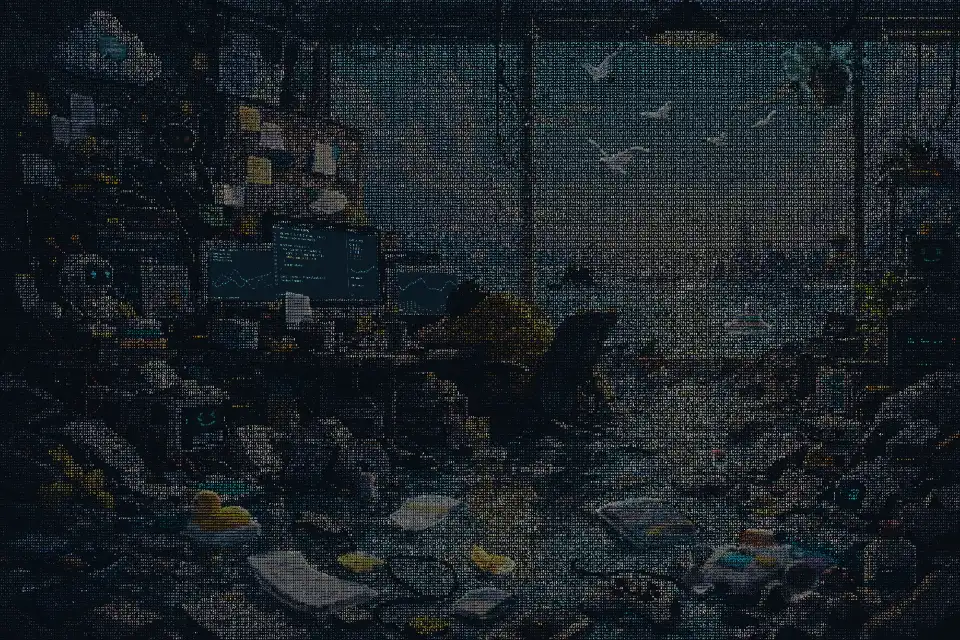
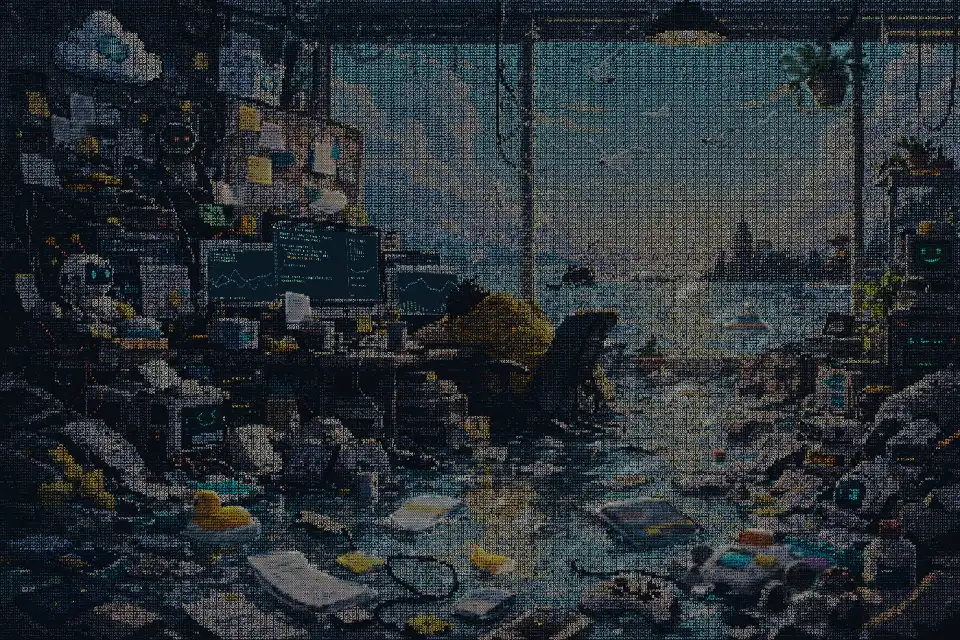
Enlarge ASCII type while keeping gulls and distant buildings at the minimum size

diff --git a/ascii-renderer.js b/ascii-renderer.js
@@ -1,8 +1,8 @@
-import { scenePixelRatio } from './render-budget.js?v=20261110-quality14';
+import { scenePixelRatio } from './render-budget.js?v=20261110-type15';
 import { createCanvas } from './canvas-factory.js?v=20261110-fps10';
 import { detailShapes, detailPoint, eyeOpening, cloudWindows, cloudSpeed, emitters } from './scene-details.js?v=20261110-depth6';
-import { GlyphAtlas } from './glyph-atlas.js?v=20261110-quality14';
-import { screens, paintScreen } from './screen-content.js?v=20261110-quality14';
+import { GlyphAtlas } from './glyph-atlas.js?v=20261110-type15';
+import { screens, paintScreen } from './screen-content.js?v=20261110-type15';
 import { faceLight, lampColor } from './scene-lights.js?v=20261110-depth6';
 import { quadPoint, drawQuad } from './scene-geometry.js?v=20261110-fps10';
 
@@ -42,7 +42,8 @@ export function inside(x, y, polygon) {
 }
 const clamp = (x, low = 0, high = 1) => Math.max(low, Math.min(high, x));
 const hash = (x, y) => { const n = Math.sin(x * 127.1 + y * 311.7) * 43758.5453; return n - Math.floor(n); };
-const sizeStops=[.01,.035,.1,.22,.44,.70,.87,.95,.985,1];
+// Nine sizes, weighted toward the readable middle rather than the extremes.
+const sizeStops=[.02,.07,.17,.35,.61,.81,.92,.98,1];
 const bands = ['.,', ':;', '-=', '+*', 'xo', '%#', 'MW', '@'];
 const light = c => (.2126 * c[0] + .7152 * c[1] + .0722 * c[2]) / 255;
 const color = c => `rgb(${c.map(v => Math.round(255 * (clamp(v / 255) ** .84))).join(' ')})`;
@@ -51,8 +52,9 @@ const sky = (r, g, b) => g - r > 26 && b - r > 33;
 const skyPixel = rgb => (rgb[1] - rgb[0] > 15 && rgb[2] - rgb[0] > 20 && rgb[1] > 110) || Math.min(...rgb) > 150;
 const smooth = value => { const t = clamp(value); return t * t * (3 - 2 * t); };
 const yieldToBrowser = () => globalThis.scheduler?.yield ? scheduler.yield() : new Promise(resolve=>setTimeout(resolve,0));
-export const fontSizes = [.35,.4,.45,.5,.55,.6,.65,.7,.75,.8];
-const fontStep = size => fontSizes[clamp(Math.round((size-.35)/.05),0,fontSizes.length-1)];
+export const fontSizes = [.6,.65,.7,.75,.8,.85,.9,.95,1];
+export const minFontSize=fontSizes[0];
+export const fontStep = size => fontSizes[clamp(Math.round((size-minFontSize)/.05),0,fontSizes.length-1)];
 
 function flight(bird, time) {
   const route = bird.route, count = route.length;
@@ -96,6 +98,22 @@ const waterAreas = [
   [[870,436],[1367,433],[1363,548],[1200,578],[1120,659],[995,657],[984,579],[875,572]],
   [[716,697],[1007,686],[1114,652],[1200,696],[1126,775],[1010,800],[966,854],[865,908],[725,900],[630,836],[555,827]],
   [[255,804],[428,815],[605,863],[725,902],[866,902],[948,884],[1074,929],[1234,931],[1349,986],[1069,1023],[694,1023],[535,948],[372,938],[242,899],[154,850]],
+];
+// Trace the distant buildings in source coordinates. Keep the common sampling
+// grid and colors; only their glyph size is fixed. Window frames and the nearer
+// monitor, shelving and plant remain outside these silhouettes.
+const distantCity = [
+  [[1114,447],[1134,437],[1143,437],[1143,416],[1152,415],[1152,404],[1162,404],[1163,420],[1171,419],
+   [1171,376],[1178,373],[1179,357],[1186,356],[1187,345],[1191,345],[1191,359],[1197,359],[1198,376],
+   [1205,379],[1205,402],[1211,402],[1211,384],[1222,384],[1222,412],[1229,406],[1238,407],[1239,417],
+   [1251,418],[1251,398],[1266,397],[1266,415],[1279,413],[1279,423],[1293,425],[1293,402],[1306,399],
+   [1306,423],[1317,421],[1317,435],[1324,434],[1325,411],[1335,412],[1335,423],[1341,423],[1341,412],
+   [1352,411],[1352,397],[1362,397],[1362,451],[1335,452],[1318,448],[1280,453],[1256,449],[1224,450],
+   [1195,450],[1160,447],[1133,453]],
+  [[1384,399],[1393,391],[1394,379],[1403,377],[1403,347],[1411,337],[1411,431],[1384,431]],
+  [[1427,360],[1439,360],[1439,332],[1448,332],[1448,314],[1464,314],[1464,325],[1477,325],
+   [1477,307],[1496,307],[1496,300],[1527,300],[1527,332],[1512,338],[1512,351],[1494,354],
+   [1471,355],[1460,351],[1450,358],[1444,361],[1427,367]],
 ];
 const personArea = [[650,516],[711,486],[722,447],[773,445],[799,472],[859,473],[890,524],[876,613],[848,643],[812,642],[802,599],[771,564],[689,560]];
 // Trace the actual curls separately from the broad body/motion exclusion area.
@@ -314,10 +332,10 @@ export class AsciiRenderer {
     this.rows = Math.round(height / (width / this.columns * 1.28));
     this.cellW = width / this.columns; this.cellH = height / this.rows;
     // Keep the previous ~5.8px reference font on desktop while packing the
-    // smaller 0.35–0.8 glyphs on a single finer lattice.
+    // readable 0.6–1.0 glyphs on a single fine lattice.
     this.fontSize = this.cellH * 1.28;
     for (const screen of this.screens) {
-      screen.fontSize=this.fontSize/this.scale*(screen.kind==='code'?.75:.65);
+      screen.fontSize=this.fontSize/this.scale*(screen.kind==='code'?.85:.8);
       screen.frame=-1;
     }
     this.palette = new GlyphAtlas(this.fontSize, Math.max(2,dpr));
@@ -337,29 +355,30 @@ export class AsciiRenderer {
       for (let col = 0; col < this.columns; col++) {
       const sx = (col + .5) * sxStep, sy = (row + .5) * syStep;
       const {rgb,contrast} = this.sampleEdge(sx,sy,sxStep*.34,syStep*.34), seed = hash(col, row);
-      const isWater = waterAreas.some(poly => inside(sx, sy, poly)) &&
+      const isCity=distantCity.some(polygon=>inside(sx,sy,polygon));
+      const isWater = !isCity && waterAreas.some(poly => inside(sx, sy, poly)) &&
         ((rgb[2] > rgb[0] * 1.1 && rgb[1] > rgb[0] * 1.13) || (light(rgb) > .57 && rgb[0] > 150));
       const isHem = inside(sx, sy, hemArea) && rgb[0] > rgb[2] * 1.8;
-      const cloudIndex = this.cloudIndex(sx,sy,rgb);
+      const cloudIndex = isCity ? -1 : this.cloudIndex(sx,sy,rgb);
       const skyWeight = Math.max(...this.cloudSources.map(source=>{
         const [x,y,w,h]=source.box;
         return smooth(Math.min(sx-x,x+w-sx,sy-y,y+h-sy)/28);
       }));
-      // Most letters share a calm middle weight. Retain all ten size steps,
+      // Most letters share a calm middle weight. Retain all nine size steps,
       // but use the extremes sparingly instead of making every surface noisy.
       const variedSize=fontSizes[sizeStops.findIndex(stop=>seed<stop)];
-      const calmSize=variedSize+(.6-variedSize)*skyWeight;
+      const calmSize=variedSize+(.8-variedSize)*skyWeight;
       // Large glyphs crossing high-contrast silhouettes made bright outlines.
       // Keep the requested size bins, with smaller glyphs at those edges.
-      const edgeSize=calmSize+(Math.min(calmSize,.65)-calmSize)*smooth((contrast-45)/100);
-      const size=fontStep(edgeSize);
-      // Ten discrete sizes, with one occupied cell at every grid position.
+      const edgeSize=calmSize+(Math.min(calmSize,.85)-calmSize)*smooth((contrast-45)/100);
+      const size=isCity ? minFontSize : fontStep(edgeSize);
+      // Nine discrete sizes, with one occupied cell at every grid position.
       const cell = { sx, sy, rgb, size,
         x: sx * this.scale + (seed - .5) * .4,
         y: sy * this.scale + (hash(row, col) - .5) * .35,
         seed, phase: seed * Math.PI * 2, glyph: glyph(rgb, seed), color: color(rgb),
         kind: isHem ? 'hem' : 'ambient' };
-      const isAmbient = !isWater && contrast<65 && skyWeight<.1 && seed < .018 && !inside(sx, sy, personArea) && !inside(sx,sy,screenOccluder) && !inside(sx,sy,monitorHousing);
+      const isAmbient = !isCity && !isWater && contrast<65 && skyWeight<.1 && seed < .018 && !inside(sx, sy, personArea) && !inside(sx,sy,screenOccluder) && !inside(sx,sy,monitorHousing);
       this.cells.push(cell);
       if (cloudIndex>=0) {
         this.cloudCells.push({...cell,cloudIndex});
@@ -405,14 +424,14 @@ export class AsciiRenderer {
         }
         if (count < 3) continue;
         const rgb = sum.map(v => v / count);
-        cells.push({ sx: px / count, sy: py / count, glyph: glyph(rgb, hash(sx, sy)), color: color(rgb), size: fontStep(detail*(.6 + .15 * clamp(count / (xStep * yStep)))) });
+        cells.push({ sx: px / count, sy: py / count, glyph: glyph(rgb, hash(sx, sy)), color: color(rgb), size: region.bird ? minFontSize : fontStep(detail*(.8 + .15 * clamp(count / (xStep * yStep)))) });
       }
       return cells;
     };
     this.sprites = [];
     for (const region of this.birdMasks) { this.sprites.push({bird:region.bird,cells:spriteCells(region)}); yield .75; }
     this.details = [];
-    for (const region of this.detailMasks) { this.details.push({shape:region.shape,cells:spriteCells(region,region.shape.kind==='eye'?.46:1)}); yield .78; }
+    for (const region of this.detailMasks) { this.details.push({shape:region.shape,cells:spriteCells(region,region.shape.kind==='eye'?.6:1)}); yield .78; }
     this.lights = emitters.map(emitter => {
       const [bx,by,w,h]=emitter.box, cells=[];
       if (emitter.plane) {
@@ -666,13 +685,13 @@ export class AsciiRenderer {
       ctx.fillStyle = '#080d13';
       for (const cell of sprite.cells) {
         const [x, y] = birdPoint(sprite.bird, cell.sx, cell.sy, time, pose);
-        const size = clamp(cell.size * pose.scale,.35,.8);
+        const size = minFontSize;
         ctx.fillRect(x * this.scale - this.cellW * .43 * size, y * this.scale - this.cellH * .4 * size,
           this.cellW * .86 * size, this.cellH * .8 * size);
       }
       for (const cell of sprite.cells) {
         const [x, y] = birdPoint(sprite.bird, cell.sx, cell.sy, time, pose);
-        this.stamp(cell, x * this.scale, y * this.scale, clamp(cell.size * pose.scale,.35,.8));
+        this.stamp(cell, x * this.scale, y * this.scale, minFontSize);
       }
     }
   }

diff --git a/index.html b/index.html
@@ -7,32 +7,32 @@
   <meta name="description" content="jaq/li 的个人博客：技术、生活与研究。" />
   <title>jaq/li</title>
   <link rel="icon" href="./assets/favicon.svg" type="image/svg+xml" />
-  <link rel="stylesheet" href="./styles.css?v=20261110-quality14" />
-  <link rel="preload" href="./assets/scene-preview.webp?v=20261110-fps10" as="image" fetchpriority="high" />
+  <link rel="stylesheet" href="./styles.css?v=20261110-type15" />
+  <link rel="preload" href="./assets/scene-preview.webp?v=20261110-type15" as="image" fetchpriority="high" />
   <link rel="preload" href="./assets/scene.webp?v=20261110-depth6" as="fetch" crossorigin="anonymous" fetchpriority="low" />
-  <link rel="modulepreload" href="./ascii-renderer.js?v=20261110-quality14" />
-  <link rel="modulepreload" href="./scene-renderer.js?v=20261110-quality14" />
-  <link rel="modulepreload" href="./flight-layer.js?v=20261110-quality14" />
-  <link rel="modulepreload" href="./render-budget.js?v=20261110-quality14" />
-  <link rel="modulepreload" href="./scene-layers.js?v=20261110-quality14" />
-  <link rel="modulepreload" href="./scene-snapshot.js?v=20261110-quality14" />
+  <link rel="modulepreload" href="./ascii-renderer.js?v=20261110-type15" />
+  <link rel="modulepreload" href="./scene-renderer.js?v=20261110-type15" />
+  <link rel="modulepreload" href="./flight-layer.js?v=20261110-type15" />
+  <link rel="modulepreload" href="./render-budget.js?v=20261110-type15" />
+  <link rel="modulepreload" href="./scene-layers.js?v=20261110-type15" />
+  <link rel="modulepreload" href="./scene-snapshot.js?v=20261110-type15" />
   <link rel="modulepreload" href="./canvas-factory.js?v=20261110-fps10" />
   <link rel="modulepreload" href="./site.config.js?v=20261110-flight11" />
   <link rel="modulepreload" href="./scene-loader.js?v=20261110-depth6" />
-  <link rel="modulepreload" href="./screen-content.js?v=20261110-quality14" />
+  <link rel="modulepreload" href="./screen-content.js?v=20261110-type15" />
   <link rel="modulepreload" href="./scene-lights.js?v=20261110-depth6" />
-  <link rel="modulepreload" href="./navigation.js?v=20261110-quality14" />
+  <link rel="modulepreload" href="./navigation.js?v=20261110-type15" />
   <link rel="modulepreload" href="./scene-details.js?v=20261110-depth6" />
-  <link rel="modulepreload" href="./glyph-atlas.js?v=20261110-quality14" />
+  <link rel="modulepreload" href="./glyph-atlas.js?v=20261110-type15" />
   <link rel="modulepreload" href="./scene-geometry.js?v=20261110-fps10" />
   <link rel="modulepreload" href="./scene-floats.js?v=20261110-depth6" />
-  <script type="module" src="./app.js?v=20261110-quality14"></script>
+  <script type="module" src="./app.js?v=20261110-type15"></script>
 </head>
 <body class="home">
   <main id="scene-viewport" class="scene-viewport" aria-label="可探索的海边工作室">
     <div id="scene-world" class="scene-world">
       <img id="scene-image" class="scene-image" alt="海边工作室：电脑屏幕通往技术博客，人物通往个人 CV。" />
-      <img id="scene-poster" class="scene-poster" src="./assets/scene-preview.webp?v=20261110-fps10" fetchpriority="high" alt="" aria-hidden="true" />
+      <img id="scene-poster" class="scene-poster" src="./assets/scene-preview.webp?v=20261110-type15" fetchpriority="high" alt="" aria-hidden="true" />
       <canvas id="ascii-canvas" aria-hidden="true"></canvas>
       <div id="motion-layers" class="motion-layers" aria-hidden="true"></div>
       <div id="flight-layer" class="flight-layer" aria-hidden="true"></div>

diff --git a/layered-scene.js b/layered-scene.js
@@ -1,6 +1,7 @@
-import { waterSampleInterval } from './render-budget.js?v=20261110-quality14';
-import { paintScreen } from './screen-content.js?v=20261110-quality14';
+import { waterSampleInterval } from './render-budget.js?v=20261110-type15';
+import { paintScreen } from './screen-content.js?v=20261110-type15';
 import { createCanvas } from './canvas-factory.js?v=20261110-fps10';
+import { fontStep } from './ascii-renderer.js?v=20261110-type15';
 
 function screenMatrix(quad,w,h,scale){
   const [[x0,y0],[x1,y1],[x2,y2],[x3,y3]]=quad,dx1=x1-x2,dx2=x3-x2,dx3=x0-x1+x2-x3,dy1=y1-y2,dy2=y3-y2,dy3=y0-y1+y2-y3;
@@ -66,7 +67,7 @@ export class LayeredScene {
     this.waterCtx.setTransform(dpr,0,0,dpr,-water.x*dpr,-water.y*dpr);
     this.resetWater();this.cloudFrame=-1;
     // Cache the same Number precision as the size calculation; float32
-    // rounding made unchanged 0.35/0.6/etc. bins compare unequal every frame.
+    // rounding made unchanged fractional bins compare unequal every frame.
     this.ambientSizes=new Float64Array(r.dynamic.length).fill(-1);
   }
   resetWater(){this.waterIndices=[-1,-1,-1];}
@@ -88,7 +89,7 @@ export class LayeredScene {
     }
     r.drawLights(time,false);
     for(let i=0;i<r.dynamic.length;i++){
-      const cell=r.dynamic[i],size=cell.kind==='hem'?cell.size:.35+Math.max(0,Math.min(9,Math.round((cell.size+.05*Math.round(Math.sin(time*.75+cell.phase))-.35)/.05)))*.05;
+      const cell=r.dynamic[i],size=cell.kind==='hem'?cell.size:fontStep(cell.size+.05*Math.round(Math.sin(time*.75+cell.phase)));
       if(cell.kind!=='hem'&&size===this.ambientSizes[i])continue;
       this.ambientSizes[i]=size;
       const pad=r.fontSize,x=cell.x-pad,y=cell.y-pad;

diff --git a/flight-layer.js b/flight-layer.js
@@ -1,4 +1,4 @@
-import { birdPose } from './ascii-renderer.js?v=20261110-quality14';
+import { birdPose, minFontSize } from './ascii-renderer.js?v=20261110-type15';
 const clamp=(v,lo=0,hi=1)=>Math.max(lo,Math.min(hi,v));
 
 // Tiny transparent bird canvases move at display cadence. Their transforms do
@@ -47,7 +47,9 @@ export class FlightLayer {
         ctx.clearRect(0,0,width,height); ctx.fillStyle='#080d13';
         for (const cell of cells) {
           cell.dy=cell.y+pose.flap*cell.wing*this.scale;
-          cell.drawSize=clamp(cell.size*pose.scale,.35,.8)/pose.scale;
+          // Perspective changes the flock's spacing, never its minimum-sized
+          // letters: cancel the scale applied by the composited bird canvas.
+          cell.drawSize=minFontSize/pose.scale;
           ctx.fillRect(cell.x-this.cellW*.43*cell.drawSize,cell.dy-this.cellH*.4*cell.drawSize,
             this.cellW*.86*cell.drawSize,this.cellH*.8*cell.drawSize);
         }
@@ -56,7 +58,9 @@ export class FlightLayer {
           ctx.drawImage(this.atlas,cell.tx,cell.ty,this.tile,this.tile,cell.x-side/2,cell.dy-side/2,side,side);
         }
       }
-      const a=pose.cos*pose.scale,b=pose.sin*pose.scale,c=-b,d=a;
+      // Match the scale of the cached glyphs exactly, including frames where
+      // a subpixel perspective change does not require another rasterization.
+      const a=pose.cos*sprite.scale,b=pose.sin*sprite.scale,c=-b,d=a;
       const tx=pose.position[0]*this.scale+a*x+c*y,ty=pose.position[1]*this.scale+b*x+d*y;
       canvas.style.transform=`matrix3d(${a},${b},0,0,${c},${d},0,0,0,0,1,0,${tx},${ty},0,1)`;
     }

diff --git a/scene-renderer.js b/scene-renderer.js
@@ -1,6 +1,6 @@
-import { scenePixelRatio } from './render-budget.js?v=20261110-quality14';
-import { SceneLayers } from './scene-layers.js?v=20261110-quality14';
-import { AsciiRenderer } from './ascii-renderer.js?v=20261110-quality14';
+import { scenePixelRatio } from './render-budget.js?v=20261110-type15';
+import { SceneLayers } from './scene-layers.js?v=20261110-type15';
+import { AsciiRenderer } from './ascii-renderer.js?v=20261110-type15';
 
 class WorkerRenderer {
   constructor(worker,canvas) {
@@ -52,7 +52,7 @@ class WorkerRenderer {
 // Start loading the worker/modules while the compressed scene downloads.
 export function prepareSceneRenderer(canvas){
   if(typeof Worker==='undefined'||typeof OffscreenCanvas==='undefined'||typeof createImageBitmap!=='function'||typeof canvas.transferControlToOffscreen!=='function')return null;
-  try{return new WorkerRenderer(new Worker(new URL('./scene-worker.js?v=20261110-quality14',import.meta.url),{type:'module'}),canvas);}catch{return null;}
+  try{return new WorkerRenderer(new Worker(new URL('./scene-worker.js?v=20261110-type15',import.meta.url),{type:'module'}),canvas);}catch{return null;}
 }
 
 export async function createSceneRenderer(image,canvas,onProgress,prepared=prepareSceneRenderer(canvas)) {

diff --git a/app.js b/app.js
@@ -1,10 +1,10 @@
-import { scenePixelRatio, sceneFrameInterval } from './render-budget.js?v=20261110-quality14';
+import { scenePixelRatio, sceneFrameInterval } from './render-budget.js?v=20261110-type15';
 import { site } from './site.config.js?v=20261110-flight11';
-import { FlightLayer } from './flight-layer.js?v=20261110-quality14';
+import { FlightLayer } from './flight-layer.js?v=20261110-type15';
 import { detailShapes, detailPoint } from './scene-details.js?v=20261110-depth6';
-import { createSceneRenderer, prepareSceneRenderer } from './scene-renderer.js?v=20261110-quality14';
+import { createSceneRenderer, prepareSceneRenderer } from './scene-renderer.js?v=20261110-type15';
 import { loadSceneImage } from './scene-loader.js?v=20261110-depth6';
-import './navigation.js?v=20261110-quality14';
+import './navigation.js?v=20261110-type15';
 
 const viewport = document.querySelector('#scene-viewport');
 const world = document.querySelector('#scene-world');

diff --git a/scene-worker.js b/scene-worker.js
@@ -1,5 +1,5 @@
-import { AsciiRenderer } from './ascii-renderer.js?v=20261110-quality14';
-import { LayeredScene } from './layered-scene.js?v=20261110-quality14';
+import { AsciiRenderer } from './ascii-renderer.js?v=20261110-type15';
+import { LayeredScene } from './layered-scene.js?v=20261110-type15';
 let renderer,display,layers,revision=0;
 let queue=Promise.resolve();
 self.onmessage=({data})=>{

diff --git a/scene-layers.js b/scene-layers.js
@@ -1,4 +1,4 @@
-import { waterSampleInterval } from './render-budget.js?v=20261110-quality14';
+import { waterSampleInterval } from './render-budget.js?v=20261110-type15';
 import { detailPoint } from './scene-details.js?v=20261110-depth6';
 
 // The browser composites small canvases in their original image coordinates.

diff --git a/navigation.js b/navigation.js
@@ -1,4 +1,4 @@
-import { drawSceneLayers } from './scene-snapshot.js?v=20261110-quality14';
+import { drawSceneLayers } from './scene-snapshot.js?v=20261110-type15';
 const reducedMotion = matchMedia('(prefers-reduced-motion: reduce)');
 let navigating = false;
 let overlay;

diff --git a/README.md b/README.md
@@ -21,19 +21,19 @@ python3 -m http.server 8081 --bind 0.0.0.0
 
 入口多边形与目标链接位于 `site.config.js`，原图尺寸为 1536 × 1024。首页无上传、拖入图片或密度调整功能。
 
-渲染由 `ascii-renderer.js` 完成。全景共用约 3.5 px 间距的字符网格（1536 px 宽时为 439 列），字号使用 0.35–0.8 倍共十档，间隔 0.05；主要集中在中间档位，每格均保留字符。屏幕与动态物体使用相同的基准字号和范围，通过 ASCII 文本、双通道波形、频谱和状态侧栏保留细节，边缘渐变接回原图反光与边框。水面使用完整的字符底层，移动反光与局部涟漪不会留下黑缝；人物躯干和手臂保持固定。
+渲染由 `ascii-renderer.js` 完成。全景共用约 3.5 px 间距的字符网格（1536 px 宽时为 439 列），字号使用 0.60–1.00 倍共九档，间隔 0.05；主要集中在 0.75–0.85 档，每格均保留字符。海鸥和远景城市始终固定在最小档 0.60；城市退出字号呼吸动画，海鸥透视缩放不改变字符字号。屏幕与动态物体使用相同的基准字号和范围，通过 ASCII 文本、双通道波形、频谱和状态侧栏保留细节，边缘渐变接回原图反光与边框。水面使用完整的字符底层，移动反光与局部涟漪不会留下黑缝；人物躯干和手臂保持固定。
 
-首屏优先显示 `assets/scene-preview.webp` 中预先渲染的 ASCII，下载 `assets/scene.webp` 的同时预载 Worker 模块，随后分段初始化动画，保持入口可点击。进度条跟随真实下载字节数、物体准备和字符绘制进度；没有长度头时，下载阶段显示不定进度。原始 PNG 不参与首页下载。静态字符同样复用图集，云纹理生成复用数组，同尺寸重复布局不会重新生成缓存。修改渲染样式或原图后，在静态服务运行时执行 `node tools/prepare-scene.cjs` 更新这两个资源（需要 ffmpeg、Playwright 和 Chromium）。
+首屏优先显示 `assets/scene-preview.webp` 中预先渲染的 ASCII，下载 `assets/scene.webp` 的同时预载 Worker 模块，随后分段初始化动画，保持入口可点击。进度条跟随真实下载字节数、物体准备和字符绘制进度；没有长度头时，下载阶段显示不定进度。原始 PNG 不参与首页下载。静态字符同样复用图集，云纹理生成复用数组，同尺寸重复布局不会重新生成缓存。修改渲染样式或原图后，在静态服务运行时执行 `node tools/prepare-scene.cjs` 更新这两个资源（需要 ffmpeg、Playwright 和 Chromium）。只调整字体时使用 `node tools/prepare-scene.cjs --preview-only`，仅重绘首屏预览，保留场景图片的原有编码和颜色。
 
 五只海鸥沿各自的闭合曲线飞行，穿插扇翼、滑翔和转弯。`flight-layer.js` 维护小型透明字符画布，`scene-layers.js` 让十一组漂浮物复用纹理、通过合成变换移动；Life 隐藏入口与小黄鸭使用同一时钟更新。其余约 1.8% 的字符独立轻微缩放，不使用全屏条纹。
 
 `layered-scene.js` 在 Worker 中分别更新水面、云层、纸张、眼睛、三块屏幕和灯光。固定背景只画一次，环境字符变化时只恢复小块底图；浏览器直接合成这些局部画布，每帧无需复制或传递整幅房间。显示屏用 CSS 四角透视，头发轮廓单独覆盖，转场通过 `scene-snapshot.js` 合成所有层。水面字符位置固定，Worker 每秒采样 12 次亮度，三个有上限的局部缓冲提前准备相邻时刻；主线程按显示节奏做加法混合，使涟漪连续变化，避免每帧重绘和上传整片水面。海鸥、漂浮物与水波混合目标 60 Hz；波形与纸张由局部绘制更新，慢速云纹理和灯光按 30 Hz 更新。实际帧率取决于设备，全部动作保持真实时间速度。
 
-`render-budget.js` 保持优化前的高 DPI 分辨率（设备 DPR，上限 2），不按画面面积降采样；字符网格、0.35–0.8 字号范围和取色规则保持不变。三块屏幕保留原来的 3 倍源纹理；云层、头发遮挡和灯光图层使用整数 CSS 边界，避免浏览器二次缩放细小字符。资源优化通过局部绘制与有上限的缓存实现：移动字形图集按字形和颜色去重，烘焙后释放静态调色图集和源画布；灯光图集最多 2048 格，屏幕文字纹理最多 2 MiB / 384 项，缩放后释放旧显示缓冲。水面缓冲始终只有三个，传递后立即关闭 ImageBitmap。最多一个 Worker 请求在途，隐藏标签页和暂停时停止调度。缺少 Worker/OffscreenCanvas 或启动失败时回退到 Canvas2D；系统要求减少动态效果时默认暂停。
+`render-budget.js` 保持优化前的高 DPI 分辨率（设备 DPR，上限 2），不按画面面积降采样；字符网格、0.60–1.00 字号范围和取色规则保持不变。三块屏幕保留原来的 3 倍源纹理；云层、头发遮挡和灯光图层使用整数 CSS 边界，避免浏览器二次缩放细小字符。资源优化通过局部绘制与有上限的缓存实现：移动字形图集按字形和颜色去重，烘焙后释放静态调色图集和源画布；灯光图集最多 2048 格，屏幕文字纹理最多 2 MiB / 384 项，缩放后释放旧显示缓冲。水面缓冲始终只有三个，传递后立即关闭 ImageBitmap。最多一个 Worker 请求在途，隐藏标签页和暂停时停止调度。缺少 Worker/OffscreenCanvas 或启动失败时回退到 Canvas2D；系统要求减少动态效果时默认暂停。
 
 `scene-details.js` 定义机器人眨眼、黄鸭与泳圈的浮动、九张纸的固定点与风动、吊盆叶尖和云层区域。`scene-lights.js` 控制机械云变色呼吸灯、红眼目光以及两侧机器人的四种表情，`screen-content.js` 绘制三块屏幕。云层在窗框后漂移；太阳、城市与室内结构保持稳定。`glyph-atlas.js` 缓存全景与灯光的彩色字符。[逐项动作设计与边界](docs/scene-motion.md)记录了受力方式、固定点和遮挡处理。
 
-城市、人物与周围场景共用同一网格、字形和颜色规则，不叠加局部细网格。边缘取色避免跨物体混色，天空使用稳定的小字；发丝按原图遮挡屏幕，保留发丝之间的背景空隙。`scene-geometry.js` 统一显示屏与左下机器人面板的四角透视。右侧显示区域扩到内侧 1–2 圈白色字符，人物头发仍遮挡显示器。`scene-floats.js` 为船、罐子、纸张、平板、手机与玩具车配置独立的浮动周期和相位；加上黄鸭，共十一组漂浮物。
+城市、人物与周围场景共用同一网格、字形和颜色规则；远景建筑按轮廓固定使用 0.60 档，不叠加局部细网格。边缘取色避免跨物体混色，天空使用稳定的小字；发丝按原图遮挡屏幕，保留发丝之间的背景空隙。`scene-geometry.js` 统一显示屏与左下机器人面板的四角透视。右侧显示区域扩到内侧 1–2 圈白色字符，人物头发仍遮挡显示器。`scene-floats.js` 为船、罐子、纸张、平板、手机与玩具车配置独立的浮动周期和相位；加上黄鸭，共十一组漂浮物。
 
 ## 内容映射
 

diff --git a/docs/scene-motion.md b/docs/scene-motion.md
@@ -4,8 +4,8 @@
 
 | 元素 | 实现与边界 |
 | --- | --- |
-| 字号层次 | 全景约 3.5 px 间距，0.35–0.8 倍十档字号，每 0.05 一档，以中间档位为主。静态场景、屏幕与动态物体共用字号范围，天空保持稳定字形。 |
-| 远景城市 | 与天空、室内和人物共用同一细网格，不在楼体轮廓内裁切或叠加独立网格。边缘采样保留楼顶、窗户及与天空的明暗对比；城市不随云移动。 |
+| 字号层次 | 全景约 3.5 px 间距，0.60–1.00 倍九档字号，每 0.05 一档，以 0.75–0.85 为主，天空收敛到 0.80。静态场景、屏幕与动态物体共用字号范围；海鸥和城市例外，始终固定 0.60。基准分配从小到大为 2%、5%、10%、18%、26%、20%、11%、6%、2%，随后应用天空和边缘调整。 |
+| 远景城市 | 与天空、室内和人物共用同一细网格，不在楼体轮廓内裁切或叠加独立网格。边缘采样保留楼顶、窗户及与天空的明暗对比；城市不随云移动；按建筑轮廓固定 0.60 档，退出字号呼吸和水面叠加，保留窗框、前景设备的原有字号。 |
 | 三块电脑屏幕 | 保留更细的 ASCII 文本而不二次降采样。四角投影跟随实际显示面的斜向与纵深。中间屏幕覆盖代码、CPU/MEM 侧栏、波形、帧数和底部状态。左屏顶部进一步覆盖约 1–2 层浅色白边，双通道波形与日志按新高度排布。右屏保持完整平行四边形，向右下延伸到头部后方，以贴合发梢的独立轮廓遮挡，保留外边框。波形与屏幕内容随局部绘制更新，目标 60 Hz；CSS 承担四角透视，复用文字纹理，四边羽化。 |
 | 左侧白色机器人眼睛 | 只提取两只眼睛的青色 LED。每 3.2 秒短暂眨眼，目光小幅偏移；头壳、天线、身体均固定。眼睛使用更细的字符，保留小尺寸表情。 |
 | 机械云灯光 | 只替换中心发光区域。青色、紫色、暖橙、薄荷色平滑过渡，亮度按 4.4 秒周期呼吸，核心保留高光。云形外壳、线路不动。 |
@@ -16,7 +16,7 @@
 | 钉在板上的纸 | 九张墙面便笺、板上纸张和显示器旁便条分别提取。固定上缘，偏移随离固定点的距离平方增加；风动频率提高约 1.75 倍，各自使用不同相位。 |
 | 云层 | 沿窗外区域单向漂移，速度约 6.8 原图 px/s。减弱与底图的颜色混合强度，保持字符形状和字号稳定，颜色分档由 32 细化为 16，减少跳色与杂点。窗口边缘渐变衔接；窗框、线缆、城市和太阳保持原位。 |
 | 吊盆叶片 | 只提取绿色叶片，上部叶尖随风轻动，靠近茎部的位移逐渐趋零。花盆和吊绳固定。 |
-| 海鸥 | 沿独立闭合航线飞行，穿插扇翼、滑翔和小幅转弯。五块透明字符画布按屏幕刷新独立移动、转向和扇翼；整景 Worker 的帧间隔不影响飞行。羽翼字符遮挡天空，海鸥不再关联页面入口。 |
+| 海鸥 | 沿独立闭合航线飞行，穿插扇翼、滑翔和小幅转弯。五块透明字符画布按屏幕刷新独立移动、转向和扇翼；整景 Worker 的帧间隔不影响飞行。羽翼字符遮挡天空，海鸥不再关联页面入口。所有羽翼字符固定为 0.60 档，合成变换与字符反向缩放配对，飞行透视也不会改变实际字号。 |
 | 水面 | 固定字符底层，叠加移动反光、局部椭圆涟漪以及浮鸭附近的波纹。Worker 按 12 Hz 准备相邻时刻的亮度，用三个有上限的缓冲循环复用；浏览器按显示节奏对相邻亮度做加法混合，连续变化且不挪走字符。 |
 | 人物与室内结构 | 躯干、手臂、头部、桌椅、屏幕外框保持稳定。衣角末端仅有不足一个像素的起伏；不对人物施加大范围扭曲。 |
 
@@ -27,7 +27,7 @@
 回归检查覆盖场景入口、小黄鸭的移动点击区域、整景阻塞期间持续的飞行与扇翼、固定的躯干与手臂、水面覆盖率、独立屏幕更新、眼睛眨动、浮鸭刚性、纸张固定端、云与窗框的分离、混合字号、移动端、暂停与减少动态效果。`tests/quality.cjs` 在 DPR 2、非整数场景缩放下比较实际截图与完整分辨率参考画面，检查字符清晰度、RGB 偏差和屏幕源纹理尺寸，防止再次用降分辨率换取帧率。
 
 
-2026-11-10 恢复清晰度后的同机串行测试（Chromium，6 秒采样；修改前为分层优化前的 87b166b，两端均保留原始 DPR）：
+2026-11-10 的 quality14 历史基准（字号调整前）：恢复清晰度后的同机串行测试（Chromium，6 秒采样；修改前为分层优化前的 87b166b，两端均保留原始 DPR）：
 
 | 场景 | 水波显示帧率，修改前 → 后 | Worker 更新帧率，修改前 → 后 | 绘图缓冲估算，修改前 → 后 |
 | --- | --- | --- | --- |
@@ -36,3 +36,5 @@
 | 手机尺寸 390×844，设备 DPR 2 | 17.8 → 59.2 fps | 17.8 → 32.8 fps | 138.2 → 99.8 MiB |
 
 帧率随设备变化。缓冲估算统计画布像素容量，浏览器与 JavaScript 内存另计。慢网测试采用 1.6 Mbps、150 ms 延迟及主线程 4 倍 CPU 降速：预览约 2.23 秒可见，动画约 4.85 秒可用，最长初始化主线程任务约 98 ms。页面只下载 154,366 字节的预览和 374,938 字节的场景 WebP。
+
+字号调整后的 type15 验证：高分屏 1440×900、DPR 2 的同机 6 秒采样，水波约 31.6 fps、局部 Worker 约 27.1 fps，绘图缓冲估算 127 MiB；保留完整分辨率。慢网条件相同，预览约 2.40 秒、动画约 5.17 秒；新版预览 172,726 字节，场景源图片仍为 374,938 字节。九档字号、海鸥在飞行透视下固定 0.60、远景城市固定 0.60、高 DPI 画质、移动端交互与加载测试通过。
